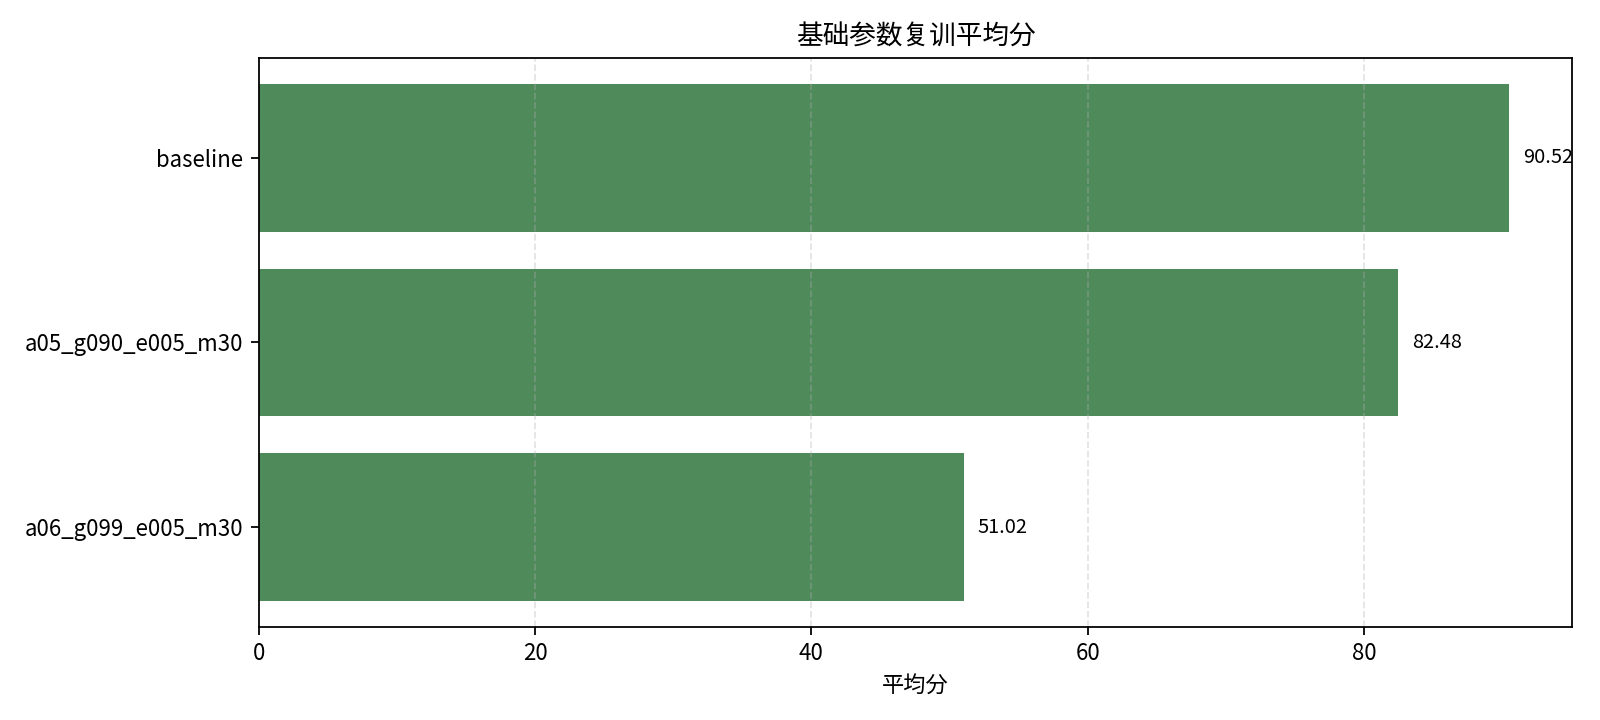
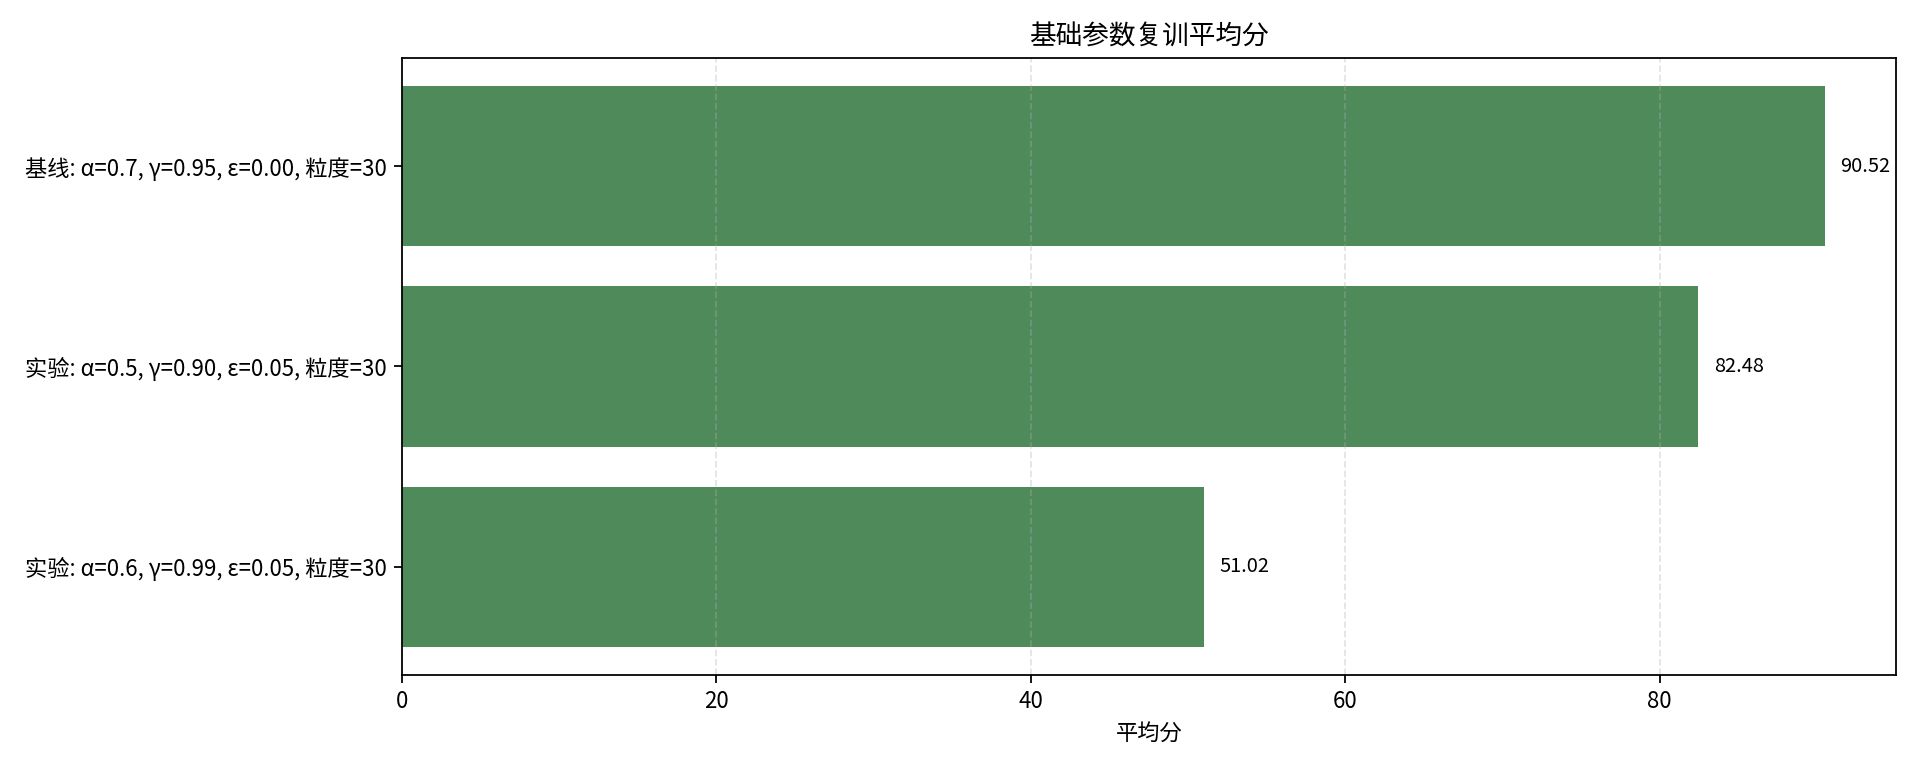
docs: 优化图表实验标签可读性

diff --git a/scripts/generate_report_charts.py b/scripts/generate_report_charts.py
@@ -27,8 +27,8 @@ def configure_fonts():
 def save_bar(df, title, xlabel, ylabel, output, color="#3f7cac", limit=None):
     if limit:
         df = df.head(limit)
-    fig_height = max(4.5, 0.35 * len(df) + 1.5)
-    fig, ax = plt.subplots(figsize=(10, fig_height))
+    fig_height = max(4.8, 0.5 * len(df) + 1.5)
+    fig, ax = plt.subplots(figsize=(12, fig_height))
     ax.barh(df[xlabel], df[ylabel], color=color)
     ax.invert_yaxis()
     ax.set_title(title)
@@ -42,6 +42,31 @@ def save_bar(df, title, xlabel, ylabel, output, color="#3f7cac", limit=None):
     plt.close(fig)
 
 
+def base_label(row):
+    prefix = "基线" if row["trial_id"] == "baseline" else "实验"
+    return (
+        f"{prefix}: α={row['alpha']:.1f}, γ={row['gamma']:.2f}, "
+        f"ε={row['epsilon']:.2f}, 粒度={int(row['obs_mul_factor'])}"
+    )
+
+
+def bonus_label(row):
+    state_names = {
+        "example": "示例状态",
+        "enhanced": "增强状态",
+        "bonus": "扩展状态",
+    }
+    reward_names = {
+        "death_penalty": "死亡惩罚",
+        "shaped": "奖励塑形",
+    }
+    return (
+        f"{state_names.get(row['state_mode'], row['state_mode'])} + "
+        f"{reward_names.get(row['reward_mode'], row['reward_mode'])}: "
+        f"α={row['alpha']:.1f}, γ={row['gamma']:.2f}, ε={row['epsilon']:.2f}"
+    )
+
+
 def main():
     configure_fonts()
     ASSETS_DIR.mkdir(parents=True, exist_ok=True)
@@ -53,11 +78,15 @@ def main():
     retrain = base[base["phase"] == "retrain"].sort_values("mean_score", ascending=False)
     bonus_screen = bonus[bonus["phase"] == "screen"].sort_values("mean_score", ascending=False)
     bonus_retrain = bonus[bonus["phase"] == "retrain"].sort_values("mean_score", ascending=False)
+    screen = screen.assign(display_label=screen.apply(base_label, axis=1))
+    retrain = retrain.assign(display_label=retrain.apply(base_label, axis=1))
+    bonus_screen = bonus_screen.assign(display_label=bonus_screen.apply(bonus_label, axis=1))
+    bonus_retrain = bonus_retrain.assign(display_label=bonus_retrain.apply(bonus_label, axis=1))
 
     save_bar(
         screen,
         "基础参数初筛平均分 Top 12",
-        "trial_id",
+        "display_label",
         "mean_score",
         ASSETS_DIR / "base_screen_top12.png",
         color="#31708e",
@@ -66,7 +95,7 @@ def main():
     save_bar(
         retrain,
         "基础参数复训平均分",
-        "trial_id",
+        "display_label",
         "mean_score",
         ASSETS_DIR / "base_retrain.png",
         color="#4f8a5b",
@@ -74,7 +103,7 @@ def main():
     save_bar(
         bonus_screen,
         "Bonus 状态与奖励初筛平均分",
-        "trial_id",
+        "display_label",
         "mean_score",
         ASSETS_DIR / "bonus_screen.png",
         color="#b65f37",
@@ -82,7 +111,7 @@ def main():
     save_bar(
         bonus_retrain,
         "Bonus 复训平均分",
-        "trial_id",
+        "display_label",
         "mean_score",
         ASSETS_DIR / "bonus_retrain.png",
         color="#7c5aa6",

diff --git a/report.md b/report.md
@@ -128,7 +128,7 @@ Q(s, a) <- Q(s, a) + alpha * (reward + gamma * max_a' Q(s', a') - Q(s, a))
 
 ![状态表示与奖励塑形关键对比](assets/charts/state_reward_key_compare.png)
 
-在 bonus 初筛实验中，示例状态 `example_reward_base` 的平均分为 `63.70`，而 `enhanced_reward_base` 达到 `120.20`，`bonus_reward_base` 达到 `115.90`。这说明相较于只使用下管道距离，加入“到缺口中心的垂直差”能显著提升状态表达能力。
+在 bonus 初筛实验中，“示例状态 + 死亡惩罚”的平均分为 `63.70`，而“增强状态 + 死亡惩罚”达到 `120.20`，“扩展状态 + 死亡惩罚”达到 `115.90`。这说明相较于只使用下管道距离，加入“到缺口中心的垂直差”能显著提升状态表达能力。
 
 `bonus` 状态在初筛中也很强，但复训后平均分下降到 `53.84`。可能原因是状态维度从 4 维增加到 6 维后，离散状态空间变得更稀疏；在同样训练局数下，Q 表对每个状态动作对的访问次数减少，导致策略稳定性变差。
 
@@ -182,11 +182,11 @@ shaped_reward =
 
 ![Bonus 初筛结果](assets/charts/bonus_screen.png)
 
-bonus 初筛中，`enhanced_shaped_e000` 平均分为 `119.95`，非常接近原奖励 `enhanced_reward_base` 的 `120.20`。这说明 reward shaping 没有破坏原任务目标，并能提供更细密的飞行姿态反馈。
+bonus 初筛中，“增强状态 + 奖励塑形”的平均分为 `119.95`，非常接近原奖励“增强状态 + 死亡惩罚”的 `120.20`。这说明 reward shaping 没有破坏原任务目标，并能提供更细密的飞行姿态反馈。
 
 ![Bonus 复训结果](assets/charts/bonus_retrain.png)
 
-但在 100000 局复训后，`enhanced_shaped_e000` 平均分为 `73.84`，低于原奖励 `enhanced_reward_base` 的 `78.86`，也低于基础最佳模型 `q_best.pkl` 的 `90.52`。可能原因是当前塑形系数偏保守或存在局部偏好：智能体会被鼓励靠近缺口中心和平稳飞行，但这不总是等价于长期最高过管分数。
+但在 100000 局复训后，“增强状态 + 奖励塑形”的平均分为 `73.84`，低于原奖励“增强状态 + 死亡惩罚”的 `78.86`，也低于基础最佳模型 `q_best.pkl` 的 `90.52`。可能原因是当前塑形系数偏保守或存在局部偏好：智能体会被鼓励靠近缺口中心和平稳飞行，但这不总是等价于长期最高过管分数。
 
 结论：bonus2 奖励塑形提供了有效的中间反馈，初筛表现很好；但最终最佳模型仍选择基础奖励方案，因为复训评估中原奖励更稳定。
 
@@ -212,13 +212,13 @@ bonus 初筛中，`enhanced_shaped_e000` 平均分为 `119.95`，非常接近原
 
 初筛前三如下：
 
-| trial | alpha | gamma | epsilon | obs_mul_factor | 初筛均分 | 最高分 |
+| 参数设置 | alpha | gamma | epsilon | obs_mul_factor | 初筛均分 | 最高分 |
 | --- | ---: | ---: | ---: | ---: | ---: | ---: |
-| `baseline` | 0.7 | 0.95 | 0.00 | 30 | 73.90 | 132 |
-| `a05_g090_e005_m30` | 0.5 | 0.90 | 0.05 | 30 | 54.85 | 132 |
-| `a06_g099_e005_m30` | 0.6 | 0.99 | 0.05 | 30 | 49.45 | 132 |
+| 基线参数 | 0.7 | 0.95 | 0.00 | 30 | 73.90 | 132 |
+| 较低学习率、较短期折扣、少量探索 | 0.5 | 0.90 | 0.05 | 30 | 54.85 | 132 |
+| 中等学习率、长期折扣、少量探索 | 0.6 | 0.99 | 0.05 | 30 | 49.45 | 132 |
 
-可以看到，`epsilon=0` 的 baseline 初筛最好。原因并不是完全没有探索，而是 Q 值相同的未见状态会随机选择动作；同时避免了额外 epsilon 探索带来的随机死亡。
+可以看到，`epsilon=0` 的基线参数初筛最好。原因并不是完全没有探索，而是 Q 值相同的未见状态会随机选择动作；同时避免了额外 epsilon 探索带来的随机死亡。
 
 ### 5.3 复训结果
 
@@ -226,13 +226,13 @@ bonus 初筛中，`enhanced_shaped_e000` 平均分为 `119.95`，非常接近原
 
 复训结果如下：
 
-| trial | alpha | gamma | epsilon | obs_mul_factor | 复训均分 | 最低分 | 最高分 | 标准差 |
+| 参数设置 | alpha | gamma | epsilon | obs_mul_factor | 复训均分 | 最低分 | 最高分 | 标准差 |
 | --- | ---: | ---: | ---: | ---: | ---: | ---: | ---: | ---: |
-| `baseline` | 0.7 | 0.95 | 0.00 | 30 | 90.52 | 3 | 132 | 46.38 |
-| `a05_g090_e005_m30` | 0.5 | 0.90 | 0.05 | 30 | 82.48 | 2 | 132 | 47.13 |
-| `a06_g099_e005_m30` | 0.6 | 0.99 | 0.05 | 30 | 51.02 | 4 | 132 | 35.56 |
+| 基线参数 | 0.7 | 0.95 | 0.00 | 30 | 90.52 | 3 | 132 | 46.38 |
+| 较低学习率、较短期折扣、少量探索 | 0.5 | 0.90 | 0.05 | 30 | 82.48 | 2 | 132 | 47.13 |
+| 中等学习率、长期折扣、少量探索 | 0.6 | 0.99 | 0.05 | 30 | 51.02 | 4 | 132 | 35.56 |
 
-最终基础最佳模型为 `baseline`，已保存为 `q_best.pkl`。
+最终基础最佳模型为“基线参数”，已保存为 `q_best.pkl`。
 
 ### 5.4 最佳模型 50 局分数走势
 
@@ -244,8 +244,8 @@ bonus 初筛中，`enhanced_shaped_e000` 平均分为 `119.95`，非常接近原
 
 学习率 `alpha`：
 
-- `alpha=0.7` 的 baseline 表现最好，说明较快吸收新样本有利于当前任务。
-- `alpha=0.5/0.6` 也能学习到策略，但复训均分低于 baseline。
+- `alpha=0.7` 的基线参数表现最好，说明较快吸收新样本有利于当前任务。
+- `alpha=0.5/0.6` 也能学习到策略，但复训均分低于基线参数。
 - `alpha` 过高可能导致 Q 值震荡，但本实验范围内 `0.7` 比较合适。
 
 折扣因子 `gamma`：
@@ -268,7 +268,7 @@ bonus 初筛中，`enhanced_shaped_e000` 平均分为 `119.95`，非常接近原
 
 ## 6. 可视化总结
 
-基础参数实验显示，baseline 在初筛和复训中都保持领先：
+基础参数实验显示，基线参数在初筛和复训中都保持领先：
 
 ![基础复训结果](assets/charts/base_retrain.png)
 
